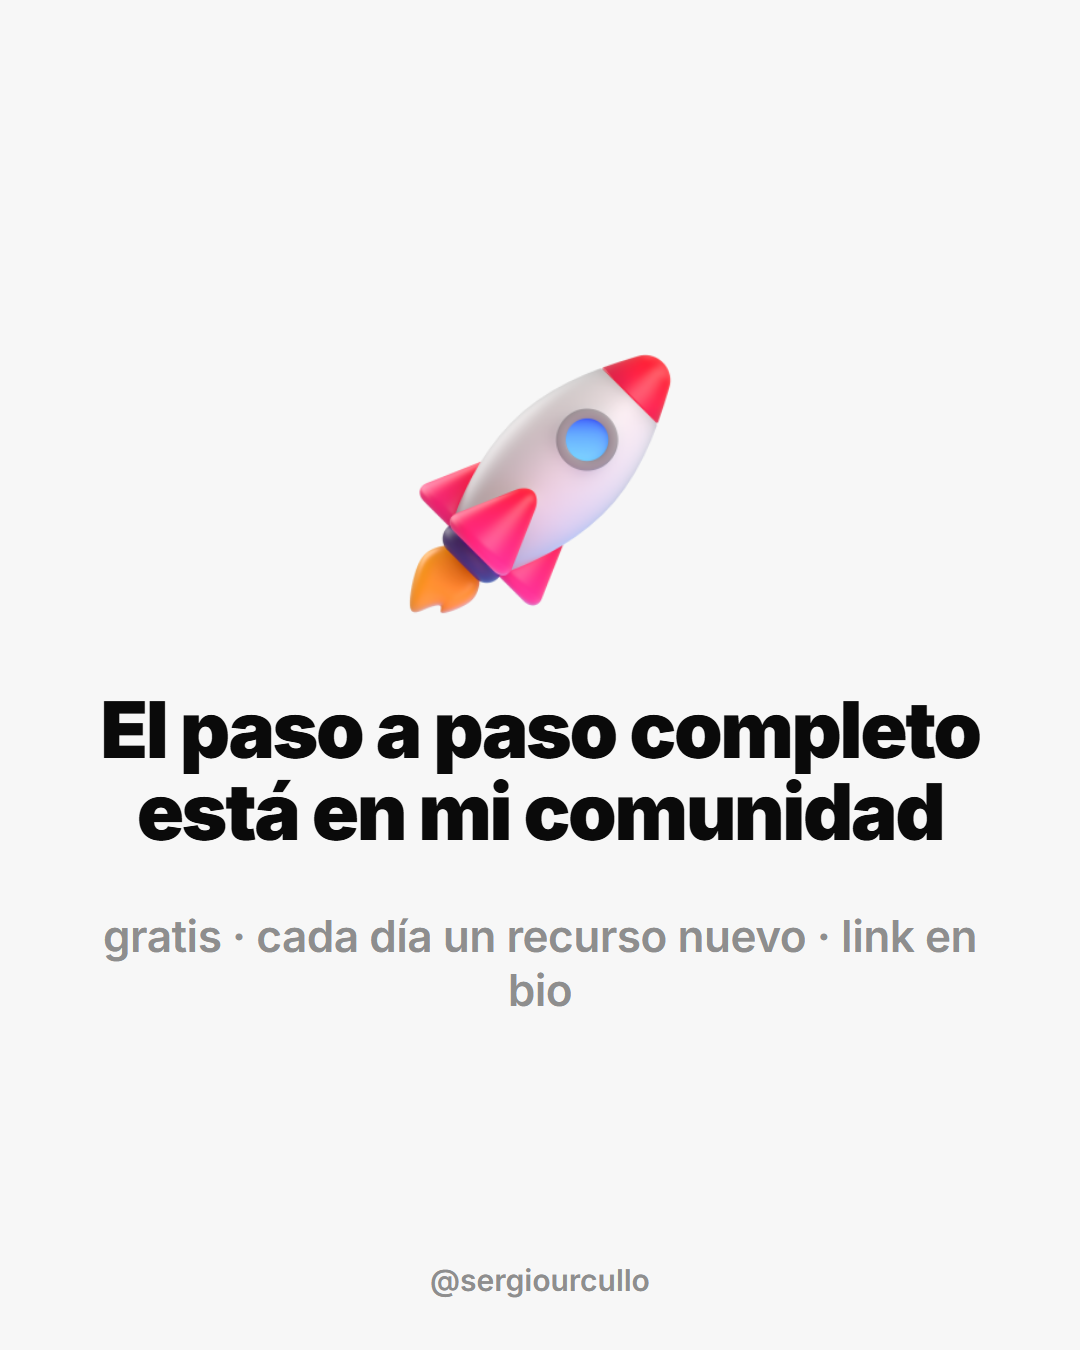
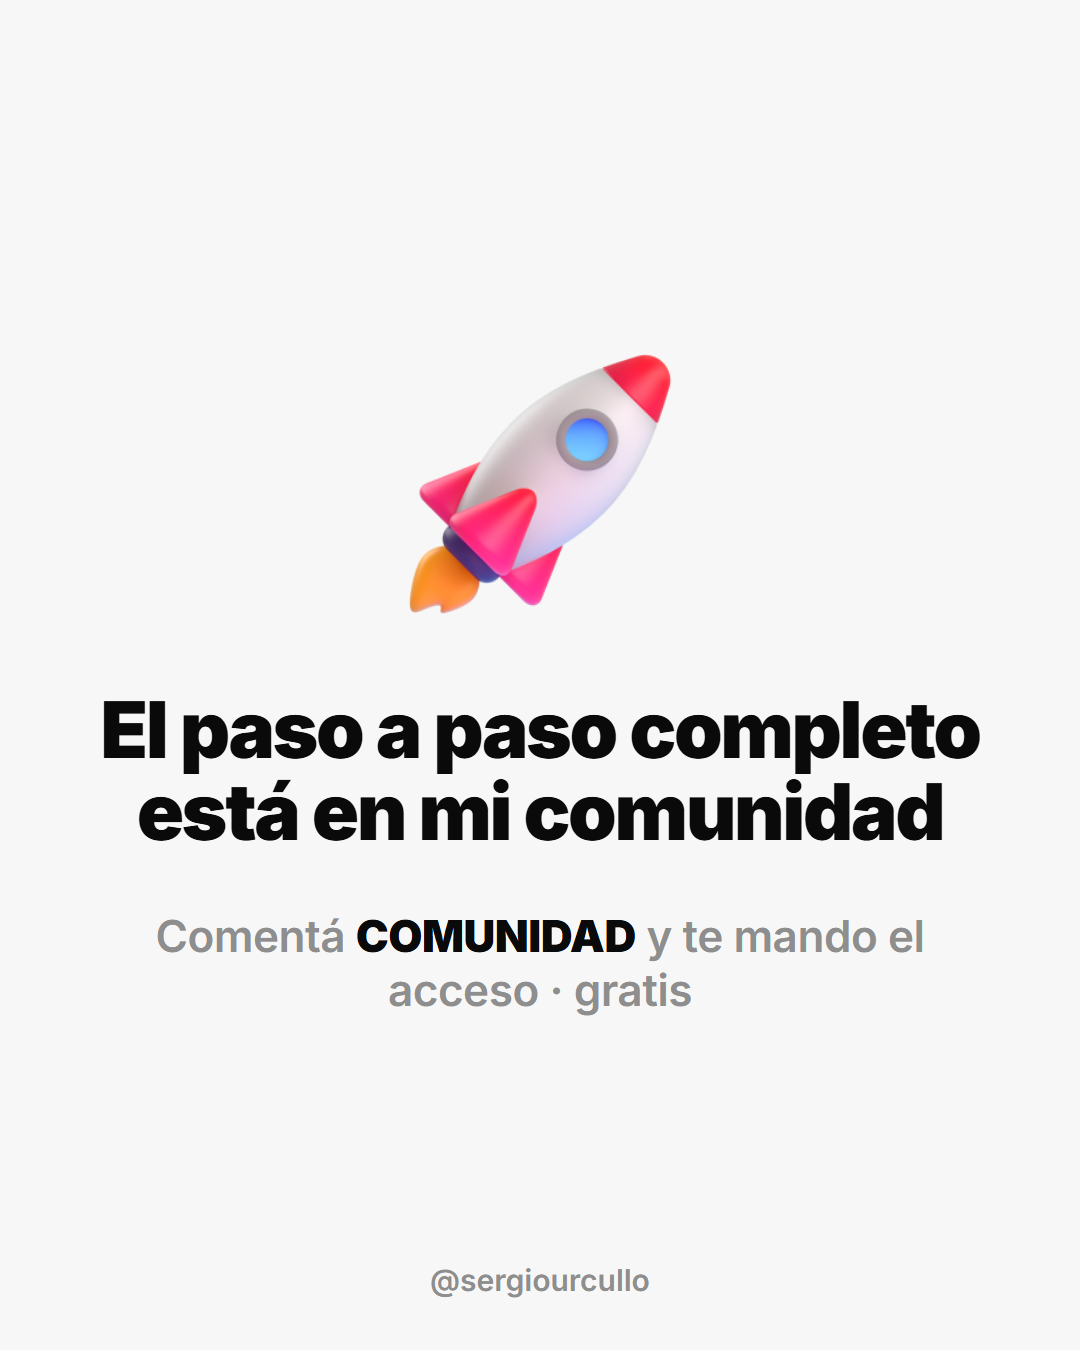
feat(marca-personal): CTA estandar 'Comenta COMUNIDAD' barrido en toda la superficie
Regla de Sergio 02-sep: el comentario genera la interaccion que el algoritmo
premia. DM automatico sigue roto: responder a mano hasta que infra lo arregle.

Changed region(s): [[0.0917, 0.6844, 0.9167, 0.7467]]

diff --git a/videos/onia-community-teaser/index.html b/videos/onia-community-teaser/index.html
@@ -50,7 +50,7 @@
       <!-- E3: 8.4 - 12 -->
       <div id="e3" class="clip" data-start="8.4" data-duration="3.6" data-track-index="1">
         <div class="wordmark" id="e3-w">Onia<br/>Community</div>
-        <div class="pill" id="e3-p" style="font-size: 52px;">GRATIS · LINK EN BIO</div>
+        <div class="pill" id="e3-p" style="font-size: 52px;">COMENTÁ: COMUNIDAD</div>
       </div>
 
     </div>

diff --git a/scripts/marca-personal/generar-carrusel-comunidad.py b/scripts/marca-personal/generar-carrusel-comunidad.py
@@ -1,0 +1,84 @@
+#!/usr/bin/env python3
+"""Carrusel de bienvenida ONIA COMMUNITY — estilo VERDE Onia (#00C661).
+3 laminas 1080x1350. Salida: carousels/out/carrusel-comunidad-bienvenida/."""
+import subprocess, tempfile, shutil
+from pathlib import Path
+
+REPO = Path(__file__).resolve().parents[2]
+ICONOS = (REPO / "hermes-content/references/ui-patterns/statement-3d-minimal/iconos").as_uri()
+OUT = REPO / "hermes-content/carousels/out/carrusel-comunidad-bienvenida"
+
+def _chrome():
+    import os, glob
+    if os.environ.get("CHROME_BIN"):
+        return os.environ["CHROME_BIN"]
+    candidatos = [r"C:\Program Files\Google\Chrome\Application\chrome.exe"]
+    candidatos += sorted(glob.glob("/root/.cache/ms-playwright/chromium-*/chrome-linux64/chrome"), reverse=True)
+    for c in candidatos:
+        if Path(c).exists():
+            return c
+    raise SystemExit("No encontre Chrome/Chromium")
+
+CHROME = _chrome()
+
+CSS = """
+@import url('https://fonts.googleapis.com/css2?family=Inter:wght@400;600;900&display=swap');
+*{margin:0;padding:0;box-sizing:border-box}
+:root{--verde:#00C661;--ink:#0A0A0A;--blanco:#FFFFFF}
+html,body{width:1080px;height:1350px}
+body{background:var(--verde);font-family:'Inter',sans-serif;overflow:hidden}
+.lienzo{width:1080px;height:1350px;display:flex;flex-direction:column;justify-content:center;align-items:center;padding:90px 100px;position:relative;gap:56px}
+.handle{position:absolute;bottom:52px;left:0;right:0;text-align:center;font-size:30px;font-weight:600;color:rgba(0,0,0,.55)}
+.wordmark{font-size:140px;font-weight:900;color:var(--ink);letter-spacing:-0.05em;line-height:.95;text-align:center}
+.titulo{font-size:82px;font-weight:900;color:var(--ink);letter-spacing:-0.03em;text-align:center;line-height:1.05}
+.sub{font-size:46px;font-weight:600;color:rgba(0,0,0,.65);text-align:center;line-height:1.3}
+.pill{background:var(--ink);color:var(--verde);font-size:42px;font-weight:900;padding:22px 54px;border-radius:60px;letter-spacing:-0.01em}
+.card{background:rgba(255,255,255,.94);border-radius:36px;padding:46px 54px;width:100%;display:flex;align-items:center;gap:40px;box-shadow:0 16px 40px rgba(0,0,0,.14)}
+.card img{width:130px;height:130px;object-fit:contain;flex:none}
+.card .t{font-size:44px;font-weight:900;color:var(--ink);letter-spacing:-0.02em}
+.card .d{font-size:34px;font-weight:400;color:#444;margin-top:6px;line-height:1.3}
+.icono{width:280px;height:280px;object-fit:contain}
+"""
+
+SLIDES = [
+    # 1 portada
+    f"""<div class="lienzo">
+  <div class="pill">GRATIS · CADA DÍA</div>
+  <div class="wordmark">Onia<br>Community</div>
+  <div class="sub">Los recursos de IA que uso de verdad<br>para construir mi empresa — con 16 años</div>
+  <div class="handle">@sergiourcullo</div>
+</div>""",
+    # 2 qué recibís
+    f"""<div class="lienzo" style="gap:44px">
+  <div class="titulo">Qué recibís<br>todos los días</div>
+  <div class="card"><img src="{ICONOS}/light_bulb.png"><div><div class="t">Una herramienta o prompt</div><div class="d">los mismos que uso yo, listos para copiar</div></div></div>
+  <div class="card"><img src="{ICONOS}/laptop.png"><div><div class="t">Mi día a día</div><div class="d">construyendo una empresa de software desde Bolivia</div></div></div>
+  <div class="card"><img src="{ICONOS}/money_bag.png"><div><div class="t">Cómo genero ingresos con IA</div><div class="d">sin humo — lo que funciona de verdad</div></div></div>
+  <div class="handle">@sergiourcullo</div>
+</div>""",
+    # 3 CTA
+    f"""<div class="lienzo">
+  <img class="icono" src="{ICONOS}/rocket.png">
+  <div class="titulo">Somos los primeros.<br>Entrá gratis.</div>
+  <div class="pill">COMENTÁ: COMUNIDAD</div>
+  <div class="handle">@sergiourcullo</div>
+</div>""",
+]
+
+def main():
+    OUT.mkdir(parents=True, exist_ok=True)
+    tmp = Path(tempfile.mkdtemp(prefix="carrusel-"))
+    for i, cuerpo in enumerate(SLIDES, 1):
+        html = f"<!doctype html><html><head><meta charset='utf-8'><style>{CSS}</style></head><body>{cuerpo}</body></html>"
+        f = tmp / f"lamina-{i:02d}.html"
+        f.write_text(html, encoding="utf-8")
+        png = OUT / f"lamina-{i:02d}.png"
+        subprocess.run([CHROME, "--headless=new", "--disable-gpu", "--hide-scrollbars", "--no-sandbox",
+            "--window-size=1080,1350", "--force-device-scale-factor=1",
+            "--virtual-time-budget=8000", f"--screenshot={png}", f.as_uri()],
+            check=True, capture_output=True, timeout=90)
+        print(f"OK lamina-{i:02d}.png {png.stat().st_size} bytes")
+    shutil.rmtree(tmp, ignore_errors=True)
+
+if __name__ == "__main__":
+    main()

diff --git a/scripts/marca-personal/generar-carrusel-prompts.py b/scripts/marca-personal/generar-carrusel-prompts.py
@@ -81,7 +81,7 @@ def cta():
 <div class="lienzo" style="gap:56px">
   <img class="icono" src="{ICONOS.as_uri()}/rocket.png">
   <div class="titulo">El paso a paso completo<br>está en mi comunidad</div>
-  <div class="sub">gratis · cada día un recurso nuevo · link en bio</div>
+  <div class="sub">Comentá <b style="color:var(--ink)">COMUNIDAD</b> y te mando el acceso · gratis</div>
   <div class="handle">@sergiourcullo</div>
 </div>"""
 

diff --git a/scripts/marca-personal/generar-carrusel-cursos.py b/scripts/marca-personal/generar-carrusel-cursos.py
@@ -89,7 +89,7 @@ SLIDES = [
     f"""<div class="lienzo" style="gap:56px">
   <img class="icono" src="{ICONOS}/sparkles.png">
   <div class="titulo">Cada día comparto<br>un recurso así</div>
-  <div class="sub">gratis, en mi comunidad · link en bio</div>
+  <div class="sub">Comentá <b style="color:var(--ink)">COMUNIDAD</b> y te mando el acceso</div>
   <div class="handle">@sergiourcullo</div>
 </div>""",
 ]

diff --git a/hermes-content/docs/ONIA_MARCA_PERSONAL_SEMANA1.md b/hermes-content/docs/ONIA_MARCA_PERSONAL_SEMANA1.md
@@ -83,7 +83,7 @@ el DM automático sigue roto, carril infra).
 > 2. Fotos de producto de catálogo desde el celular
 > 3. Cotizaciones y descripciones que se escriben solas
 > ¿Cuándo SÍ pagar? Cuando necesitás que todo funcione junto, solo, todos los días.
-> El paso a paso está en mi comunidad — link en bio.
+> ¿Querés el paso a paso? Comentá COMUNIDAD y te mando el acceso.
 
 > **LinkedIn:** Antes de firmar con una agencia de marketing o de IA, probá esto gratis:
 > 1) Un asistente que responda las preguntas frecuentes de tus clientes — se arma en
@@ -94,7 +94,7 @@ el DM automático sigue roto, carril infra).
 > ¿Cuándo sí tiene sentido pagar? Cuando necesitás que todo eso funcione junto, sin que
 > nadie lo esté prendiendo a mano todos los días. Ahí ya es un sistema — y es otra
 > conversación.
-> El paso a paso de las 3 cosas gratis está en mi comunidad de WhatsApp — link en bio.
+> El paso a paso de las 3 cosas gratis está en mi comunidad de WhatsApp: comentá COMUNIDAD y te mando el acceso.
 
 **Video C — interactivo**
 

diff --git a/hermes-content/docs/ONIA_MARCA_PERSONAL_RADAR.md b/hermes-content/docs/ONIA_MARCA_PERSONAL_RADAR.md
@@ -63,8 +63,10 @@ listas de herramientas ~50K · interactivo "¿qué negocio quieren que construya
 | Claude Skills | SKILL | guía de activación |
 | Caso real por rubro | MI NEGOCIO | respuesta personalizada en General |
 
-⚠ El circuito palabra→DM sigue roto (carril infra): hasta que se arregle, el CTA de
-los videos es "link en bio → comunidad", NO "comentá X y te llega".
+**Regla de CTA (Sergio, 02-sep): SIEMPRE pedir comentar COMUNIDAD** — el comentario es la
+interacción que el algoritmo premia. ⚠ El DM automático sigue roto (carril infra): hasta
+que se arregle, los comentarios COMUNIDAD se responden A MANO con el link (Sergio o la
+sesión madre). El link en bio queda como respaldo silencioso.
 
 ## 4 · Para la sesión de grabación con Samuel
 

diff --git a/hermes-content/docs/ONIA_MARCA_PERSONAL_BASE_CONTENIDO.md b/hermes-content/docs/ONIA_MARCA_PERSONAL_BASE_CONTENIDO.md
@@ -36,6 +36,8 @@
   statement-3d (guardados > likes).
 - Palabras que convierten en ES: "gratis", "con certificado", "de verdad", "paso a paso",
   "sin pagarle a nadie".
+- **CTA estándar: "Comentá COMUNIDAD y te mando el acceso"** (regla Sergio 02-sep) — el
+  comentario alimenta el algoritmo; el link en bio es respaldo. DM roto = responder a mano.
 
 ## 4 · Para SAMUEL (brief que se le entrega con el radar mensual)
 
